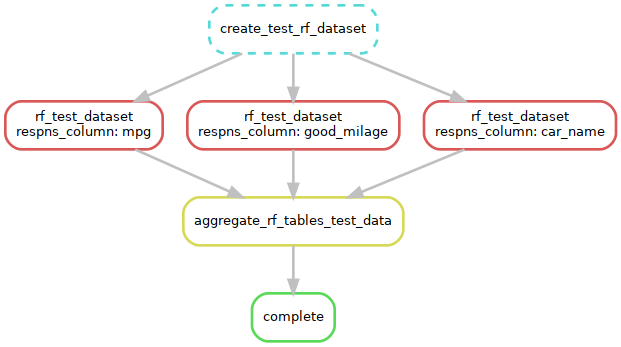
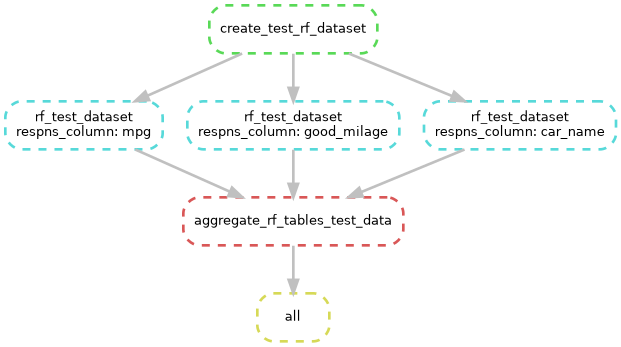
change rule complete to rule all; update graphics; change workshop to use pre-installed conda env because building the env can take a lot of time for the cluster.

diff --git a/SCINet_Snakemake_workshop.md b/SCINet_Snakemake_workshop.md
@@ -71,7 +71,7 @@ srun --reservation=wk1_workshop -A scinet_workshop2 -t 05:00:00 -n 1 --mem 8G --
 ```bash
 mkdir -p /90daydata/shared/$USER/snakemake_ws 
 cd /90daydata/shared/$USER/snakemake_ws
-cp -r /project/scinet_workshop1/snakemake .
+cp -r /project/scinet_workshop1/snakemake/* .
 mkdir .conda
 ```
 
@@ -98,12 +98,11 @@ tree
 When you run that, you should see something like this:
 ```
 .
-├── data
 ├── LICENSE
-├── output
 ├── README.md
 ├── SCINet_Snakemake_workshop.md
 └── workflow
+    ├── Snakefile
     ├── config
     │   └── config.yaml
     ├── env
@@ -113,14 +112,13 @@ When you run that, you should see something like this:
     │   └── rulegraph.png
     ├── resources
     │   └── snakemake_icon.png
-    ├── scripts
-    │   ├── data_org
-    │   │   ├── combine_2_csv.R
-    │   │   ├── combine_rf_data.R
-    │   │   └── make_rf_test_dfs.R
-    │   └── ml
-    │       └── random_forest.py
-    └── Snakefile
+    └── scripts
+        ├── data_org
+        │   ├── combine_2_csv.R
+        │   ├── combine_rf_data.R
+        │   └── make_rf_test_dfs.R
+        └── ml
+            └── random_forest.py
 ```
 
 ## Snakemake logic
@@ -144,9 +142,10 @@ This pipeline can best be described by summarizing the rules, in the order that 
 * **rule rf_test_dataset:**
     Reads in the response columns one at a time to the random forest. The random forest makes a pdf graphic, saved to output/unit_test/graphics and and a table of the scikit learn scores (r squared for mgp and accuracy for good_milage) in output/unit_test/tables. 
 * **rule aggregate_rf_tables_test_data:**
-    This rule tells Snakemake to look for the later output and then aggregates all the scores into a single file.
-* **rule Complete**
-    This is the final rule that only has input. It is used to call all the other rules. If you have multiple chains of rules, the end product will go here. Note that there is a convention to name this rule "all".
+    This rule tells Snakemake to look for the later output and then aggregates all the scores into a single file. This rule makes use of the expand() helper function, see https://snakemake.readthedocs.io/en/stable/snakefiles/rules.html#helpers-for-defining-rules to see all the helper functions.
+    In this case, expand() creates a list of file paths for each of the *response_cols* wildcards, see [Our wildcards](#our-wildcards) for a bit more about wildcards.
+* **rule all**
+    This is the final rule that only has input. It a catch-all rule that holds the final output of all other rule chains. If you have multiple chains of rules, the end product of each chain will go here. Note that there is a convention to name this rule "all", though it is not required by Snakemake.
 
 ### Our wildcards
 Wildcards enable Snakemake to identify and keep track of different files in the workflow. Our wildcards are defined on line 13 of the Snakefile as 
@@ -189,7 +188,6 @@ In this tuturial project only one conda environment is used, but as many as need
 ```bash
 cat workflow/env/snk_mk_conda_env.yml
 ```
-
 This file holds the conda env that you loaded in [Tutorial Setup Instructions](#tutorial-Setup-Instructions). There are comments at the top and bottom of this file to help you install it when you need to set up your own projects.
 
 #### Resources
@@ -210,16 +208,11 @@ Default resources are allocated in workflow/config/config.yaml, but for a given 
 module load miniconda
 ```
 
-* Create the conda environment for Snakemake and the libraries for the pipeline. This env will be available as long the conda files in the .conda dir are available. 
-{:.copy-code}
-```bash
-conda env create --file workflow/env/snk_mk_conda_env.yml --prefix ./.conda
-```
-`
-Load the conda environment that we just made.
+* Load the conda environment for Snakemake and the libraries for the pipeline. This env will be available as long the conda files in the .conda dir are available. This env and instructions for creating it can be found at workflow/env/snk_mk_conda_env.yml. 
 {:.copy-code}
 ```bash
 source activate snk_mk_conda_env /90daydata/shared/$USER/snakemake_ws/.conda
+```
 
 First, we need to do a dry run to see what jobs will run:
 {:.copy-code}

diff --git a/README.md b/README.md
@@ -14,7 +14,7 @@ This pipeline can best be described by summarizing the rules, in the order that 
     Reads in the response columns one at a time to the random forest. The random forest makes a pdf graphic, saved to output/unit_test/graphics and and a table of the scikit learn scores (r squared for mgp and accuracy for good_milage) in output/unit_test/tables. 
 * **rule aggregate_rf_tables_test_data:**
     This rule tells Snakemake to look for the later output and then aggregates all the scores into a single file.
-* **rule Complete**
+* **rule all**
     This is the final rule that only has input. It is used to call all the other rules. If you have multiple chains of rules, the end product will go here. Note that there is a convention to name this rule "all".
 ### Wildcards
 ![directed acyclic graph](workflow/reports/dag.png "Rules with wildcards")
@@ -162,7 +162,7 @@ localrule aggregate_rf_tables_test_data:
 Execute 1 jobs...
 
 [Mon Mar 31 15:59:18 2025]
-localrule complete:
+localrule all:
     input: output/unit_test/tables/rf_test_scores.csv
     jobid: 0
     reason: Input files updated by another job: output/unit_test/tables/rf_test_scores.csv
